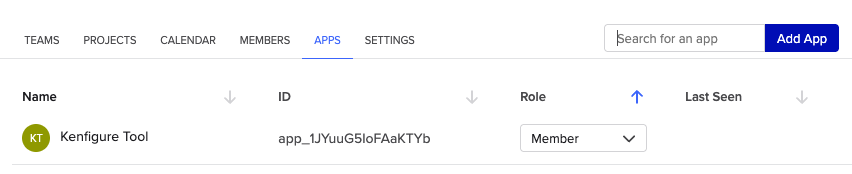
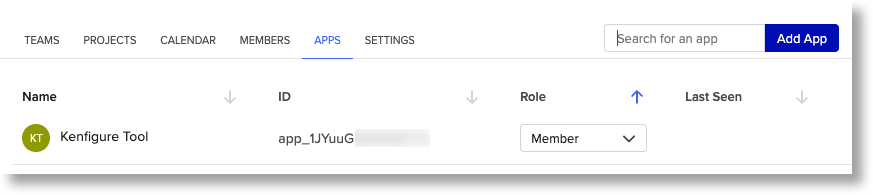
Add screenshots. Delete old unused images. Still 3 TODOs for installation.

diff --git a/docs/kenfigure_tool_user_guide.md b/docs/kenfigure_tool_user_guide.md
@@ -78,13 +78,13 @@ TODO-Ken: end snip
 Once you have your install URL:
 
 1. Open the URL while logged into your Benchling tenant. You'll see the app installation screen.
-  *[Screenshot: App installation screen showing the Install button]*
+  *TODO[Screenshot: App installation screen showing the Install button]*
 2. Click **Install**.
 3. **Before activating**, add the app to your Organization — this step must be done first or the canvas will not function:
   - Go to **Tenant Admin** > select your Organization > **Apps** > search for "Kenfigure Tool" > **Add App**
-   *[Screenshot: Adding Kenfigure Tool to an Organization]*
+   ![Screenshot: Adding Kenfigure Tool to an Organization](images/adding_app_to_org.png)
 4. Return to the app screen (Connections > Apps > Kenfigure Tool if you navigated away) and click **Activate**.
-  *[Screenshot: Activated app ready for use]*
+  *TODO[Screenshot: Activated app ready for use]*
 
 The app is now installed and ready to use.
 
@@ -121,7 +121,7 @@ Kenfigure Tool configuration is managed by a Tenant Admin via the **CONFIGURATIO
 
 There are two configuration items: **Advanced Settings**, which controls git integration, and **Git Access Token**, which provides the credential for git operations. Both are needed only if you're using git features — file-based exports and imports work with no configuration at all.
 
-*[Screenshot: The CONFIGURATION tab showing the Advanced Settings and Git Access Token fields]*
+![Screenshot: The CONFIGURATION tab showing the Advanced Settings and Git Access Token fields](images/configuration.png)
 
 ### Advanced Settings
 
@@ -245,7 +245,7 @@ Go to **CONFIGURATION** > **Git Access Token** > paste your token value > Submit
 
 Open the app via **Connections** (the icon that looks like a folder with a recycling symbol at the bottom of the Benchling navigation bar) > **Apps** > **Kenfigure Tool**.
 
-*[Screenshot: Connections icon location in the Benchling navigation bar]*
+![Screenshot: Connections icon location in the Benchling navigation bar](images/navbar_connections.png)
 
 The Home page has four tabs:
 
@@ -254,7 +254,7 @@ The Home page has four tabs:
 - **ACCESS** — Shows the access granted to the app
 - **ACTIVITY** — The conversion activity log (see [Activity Log](#activity-log)).
 
-*[Screenshot: App Home page showing the four tabs: GENERAL, CONFIGURATION, ACCESS, ACTIVITY]*
+![Screenshot: App Home page showing the four tabs: GENERAL, CONFIGURATION, ACCESS, ACTIVITY](images/tabs.png)
 
 ### Inserting the canvas into a Notebook entry
 
@@ -269,7 +269,7 @@ The canvas that appears is identical to the GENERAL tab on the Home page.
 
 The canvas has an Export section, Import section, and some useful references at the bottom.
 
-*[Screenshot: Full canvas showing both the Export and Import sections and the footer]*
+![Screenshot: Full canvas showing both the Export and Import sections and the footer](images/full_screen.png)
 
 **Export from Benchling** (top section)
 
@@ -299,18 +299,18 @@ Before using Kenfigure Tool, export your Benchling configuration using the Confi
 
 1. In Benchling, go to **Settings** > **Configuration Migration**
 2. Select the Organization (if you have more than one)
-3. Select "Migrate entire org" or "Select items to migrate". We recommend that you use "Select items to migrate" and then select all schemas and dropdowns (see tip below)
+3. Select "Select items to migrate" or "Migrate entire org". We recommend that you use "Select items to migrate" and then select all schemas and dropdowns (see tip below)
 4. Click **Export**. Benchling generates and downloads a `.dat` file to your computer.
 
 Tip: you don't need to include Workflows or Templates. Kenfigure doesn't support those yet, and including them — especially Templates — can make the file very large and will slow things down.
 
-*[Screenshot: Configuration Migration export screen in Benchling]*
+![Screenshot: Configuration Migration export screen in Benchling](images/config_migration_export.png)
 
 #### Step 2 — Upload the .dat file to the Kenfigure Tool canvas
 
 In the **Export from Benchling** section at the top of the canvas, click the "Upload file" and select your `.dat` file.
 
-*[Screenshot: Export section with a .dat file uploaded, before clicking a button]*
+![Screenshot: Export section with a .dat file uploaded, before clicking a button](images/export_uploaded.png)
 
 #### Step 3a — Export to File
 
@@ -319,7 +319,7 @@ The status area will briefly show a "Converting…" message, then after a few se
 
 Click the link to download the `.zip` file.
 
-*[Screenshot: Export section showing the download link after a successful Export to File]*
+![Screenshot: Export section showing the download link after a successful Export to File](images/export_zip.png)
 
 The `.zip` contains your Kenfigure files organized by schema type. It also includes a file called `schema_lint_errors.log`, which contains style suggestions based on Kenfigure's schema design guidelines. These are optional recommendations — review them at your discretion and act on whatever makes sense for your team.
 (Kenfigure Diagram allows you to view your schema lint warnings interactively and in context and provides a means to suppress individual warnings.)
@@ -332,7 +332,7 @@ Click **Export to Git**. This button converts the uploaded file to Kenfigure for
 - With the **branch_pr** (branch and pull request) strategy, a new branch is created and a pull request is opened targeting your configured branch.
   A link to the pull request appears in the status area.
 
-*[Screenshot: Export section showing the "Open pull request" link after a successful Export to Git with branch_pr]*
+![Screenshot: Export section showing the "Open pull request" link after a successful Export to Git with branch_pr](images/export_pr.png)
 
 ### Import workflow: Kenfigure → Benchling
 
@@ -352,7 +352,7 @@ No file upload is needed.
 2. The app fetches the Kenfigure files from your configured repository and converts them to Benchling format
 3. A download link appears — click it to download the `.dat` file
 
-*[Screenshot: Import section showing the download link after a successful Import from Git]*
+![Screenshot: Import section showing the download link after a successful Import from Git](images/import_git.png)
 
 #### Applying the .dat file to Benchling
 
@@ -389,7 +389,9 @@ Each entry shows the operation name, timestamp, and whether it succeeded or fail
 
 It takes a few seconds after opening the ACTIVITY tab for the most recent entry to appear.
 
-*[Screenshot: Activity log showing a few entries, with one expanded to show detail messages]*
+The log messages in an expanded session are ordered with the most recent at the top.
+
+![Screenshot: Activity log showing a few entries, with one expanded to show detail messages](images/activity.png)
 
 ---
 